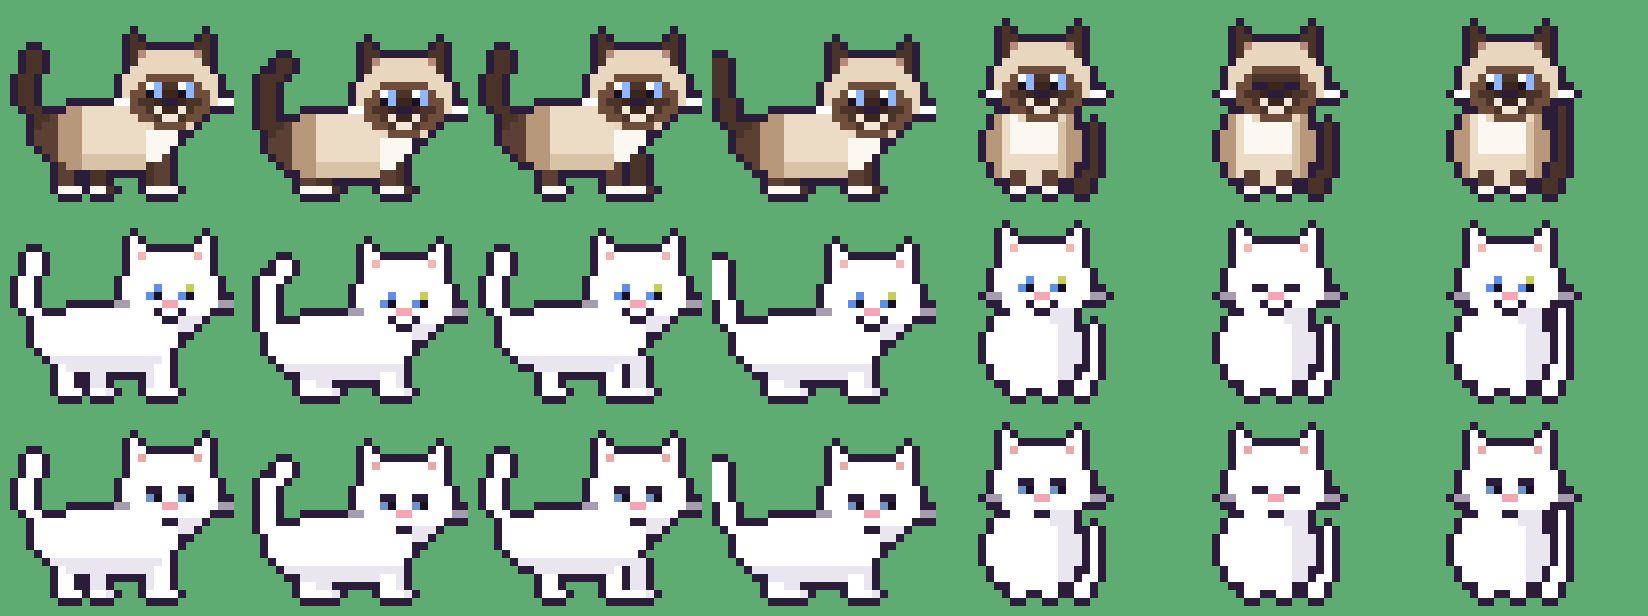
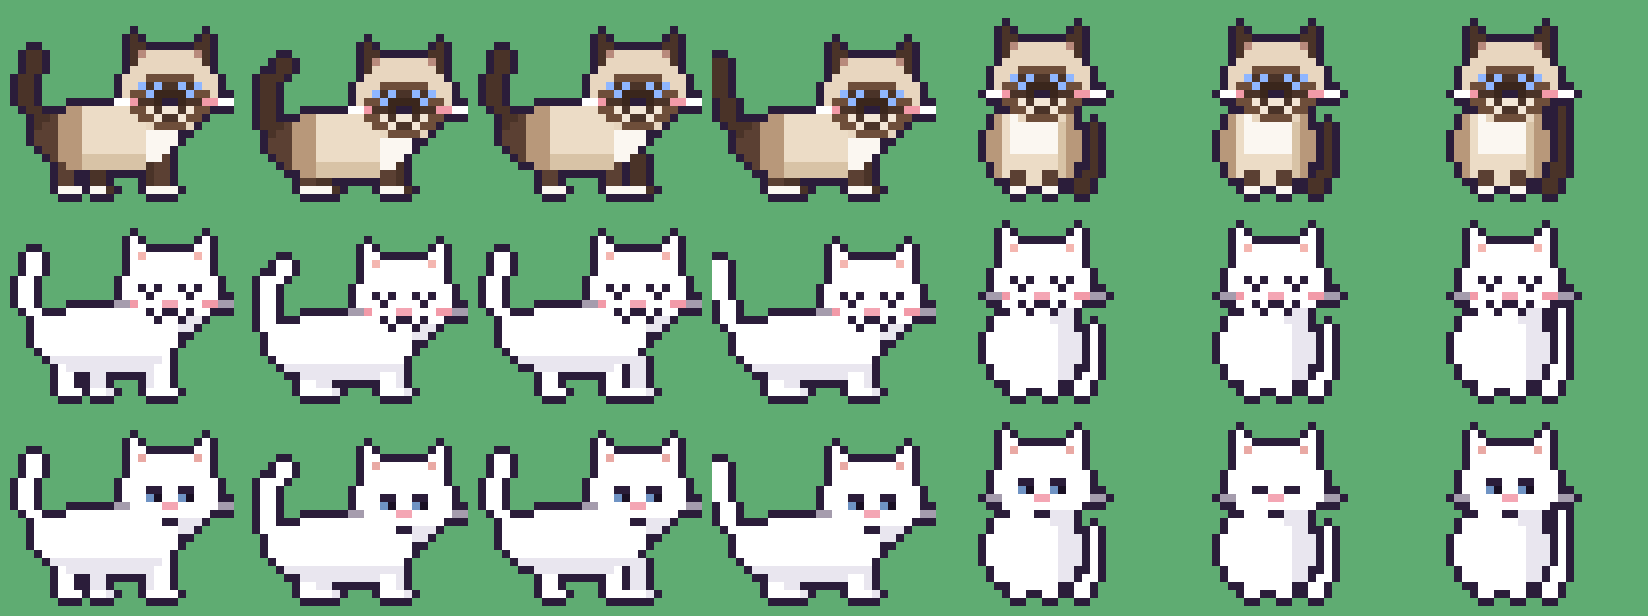
Cats: uwu faces for Precious and Cotton [skip ci]
Claude-Session: https://claude.ai/code/session_01DcRsQ77FYXtVXyNejf31QG

diff --git a/tools/cats.py b/tools/cats.py
@@ -24,9 +24,9 @@ class B:
 CATS={
  'precious':dict(body=C('#ecdcc6'),bodyS=C('#d8c3a6'),point=C('#5b4033'),pointS=C('#4a3328'),paw=C('#fbf7f1'),tail=C('#4a3328'),face=C('#e8d6bf'),
    mask=[C('#3a261c'),C('#4a3328'),C('#6e4e3a'),C('#a07e64')],ear=C('#4a3328'),earIn=C('#b88a7c'),bib=C('#fbf7f1'),eyes=[C('#8fb6ff'),C('#8fb6ff')],nose=C('#2b1d3a'),
-   whisk=C('#ffffff'),thick=0,grumpy=0,mouth='smile'),
+   whisk=C('#ffffff'),thick=0,grumpy=0,mouth='w',uwu=1),
  'cotton':dict(body=C('#ffffff'),bodyS=C('#e9e6ef'),point=C('#ffffff'),pointS=C('#e9e6ef'),paw=C('#ffffff'),tail=C('#ffffff'),face=C('#ffffff'),mask=None,
-   ear=C('#ffffff'),earIn=C('#f4b6b0'),bib=None,eyes=[C('#5d8fe8'),(C('#5d8fe8'),C('#c3cf55'))],nose=C('#f4a6b4'),whisk=C('#a59cad'),thick=0,grumpy=0,mouth='smile'),
+   ear=C('#ffffff'),earIn=C('#f4b6b0'),bib=None,eyes=[C('#5d8fe8'),(C('#5d8fe8'),C('#c3cf55'))],nose=C('#f4a6b4'),whisk=C('#a59cad'),thick=0,grumpy=0,mouth='w',uwu=1),
  'collete':dict(body=C('#ffffff'),bodyS=C('#e9e6ef'),point=C('#ffffff'),pointS=C('#e9e6ef'),paw=C('#ffffff'),tail=C('#ffffff'),face=C('#ffffff'),mask=None,
    ear=C('#ffffff'),earIn=C('#e9a9a4'),bib=None,eyes=[C('#6f93c4'),C('#6f93c4')],nose=C('#f4a6b4'),whisk=C('#a59cad'),thick=0,grumpy=1,mouth='flat'),
 }
@@ -49,7 +49,13 @@ def head(b,cat,hx,hy,blink=False):
     b.ell(hx,hy,6,5,f)
     # eyes
     ey=int(hy-1)
-    for i,ex in enumerate((int(hx-3),int(hx+1))):
+    if k.get('uwu'):
+        lc=k['eyes'][0] if k['mask'] else OUT
+        for x0 in(int(hx-4),int(hx+1)):
+            b.sp(x0,ey,lc);b.sp(x0+1,ey+1,lc);b.sp(x0+2,ey,lc)
+        bl=C('#f29aa8')
+        b.sp(int(hx-6),ey+2,bl);b.sp(int(hx-5),ey+2,bl);b.sp(int(hx+4),ey+2,bl);b.sp(int(hx+5),ey+2,bl)
+    for i,ex in enumerate(() if k.get('uwu') else (int(hx-3),int(hx+1))):
         col=k['eyes'][i]
         if blink:
             b.sp(ex,ey+1,OUT);b.sp(ex+1,ey+1,OUT);continue
@@ -64,7 +70,9 @@ def head(b,cat,hx,hy,blink=False):
     b.sp(nx,ny,k['nose']);b.sp(nx+1,ny,k['nose'])
     mc=C('#f3e6d6') if k['mask'] else OUT
     m=k['mouth']
-    if m=='flat':b.sp(nx,ny+2,mc);b.sp(nx+1,ny+2,mc)
+    if m=='w':
+        for (dx,dy) in((-2,1),(-1,2),(0,1),(1,1),(2,2),(3,1)):b.sp(nx+dx,ny+dy,mc)
+    elif m=='flat':b.sp(nx,ny+2,mc);b.sp(nx+1,ny+2,mc)
     elif m=='pout':b.sp(nx-1,ny+3,mc);b.sp(nx,ny+2,mc);b.sp(nx+1,ny+2,mc);b.sp(nx+2,ny+3,mc)
     else:b.sp(nx-1,ny+1,mc);b.sp(nx,ny+2,mc);b.sp(nx+1,ny+2,mc);b.sp(nx+2,ny+1,mc)
     # whiskers

diff --git a/assets/characters/cats/README.md b/assets/characters/cats/README.md
@@ -4,8 +4,8 @@
 
 | Cat | Look |
 |---|---|
-| **Precious** | Siamese: cream body `#ecdcc6`, dark-brown points/legs `#5b4033`, tail and ears `#4a3328`, dark face mask, white bib and paws, big blue eyes `#8fb6ff`, slim body (same build as the others), smiling |
-| **Cotton** | Slim, all white, pink ears and nose, one blue eye `#5d8fe8` and one half-blue/half-yellow eye (`#5d8fe8`/`#c3cf55`), smiling |
+| **Precious** | Siamese: cream body `#ecdcc6`, dark-brown points/legs `#5b4033`, tail and ears `#4a3328`, dark face mask, white bib and paws, big blue eyes `#8fb6ff`, slim body (same build as the others), **uwu face** (closed happy u-eyes in blue, ω mouth, pink blush) |
+| **Cotton** | Slim, all white, pink ears and nose, one blue eye `#5d8fe8` and one half-blue/half-yellow eye (`#5d8fe8`/`#c3cf55`, visible in the walk frames' color data but hidden by the uwu face), **uwu face** (closed u-eyes, ω mouth, pink blush) |
 | **Collete** | Slim, all white, pink ears and nose, blue eyes `#6f93c4` under heavy half-closed lids, **mildly grumpy** (no angry brows), **straight face** (flat mouth) |
 
 - Outline: `#2b1d3a` (same as Flip Guy).
